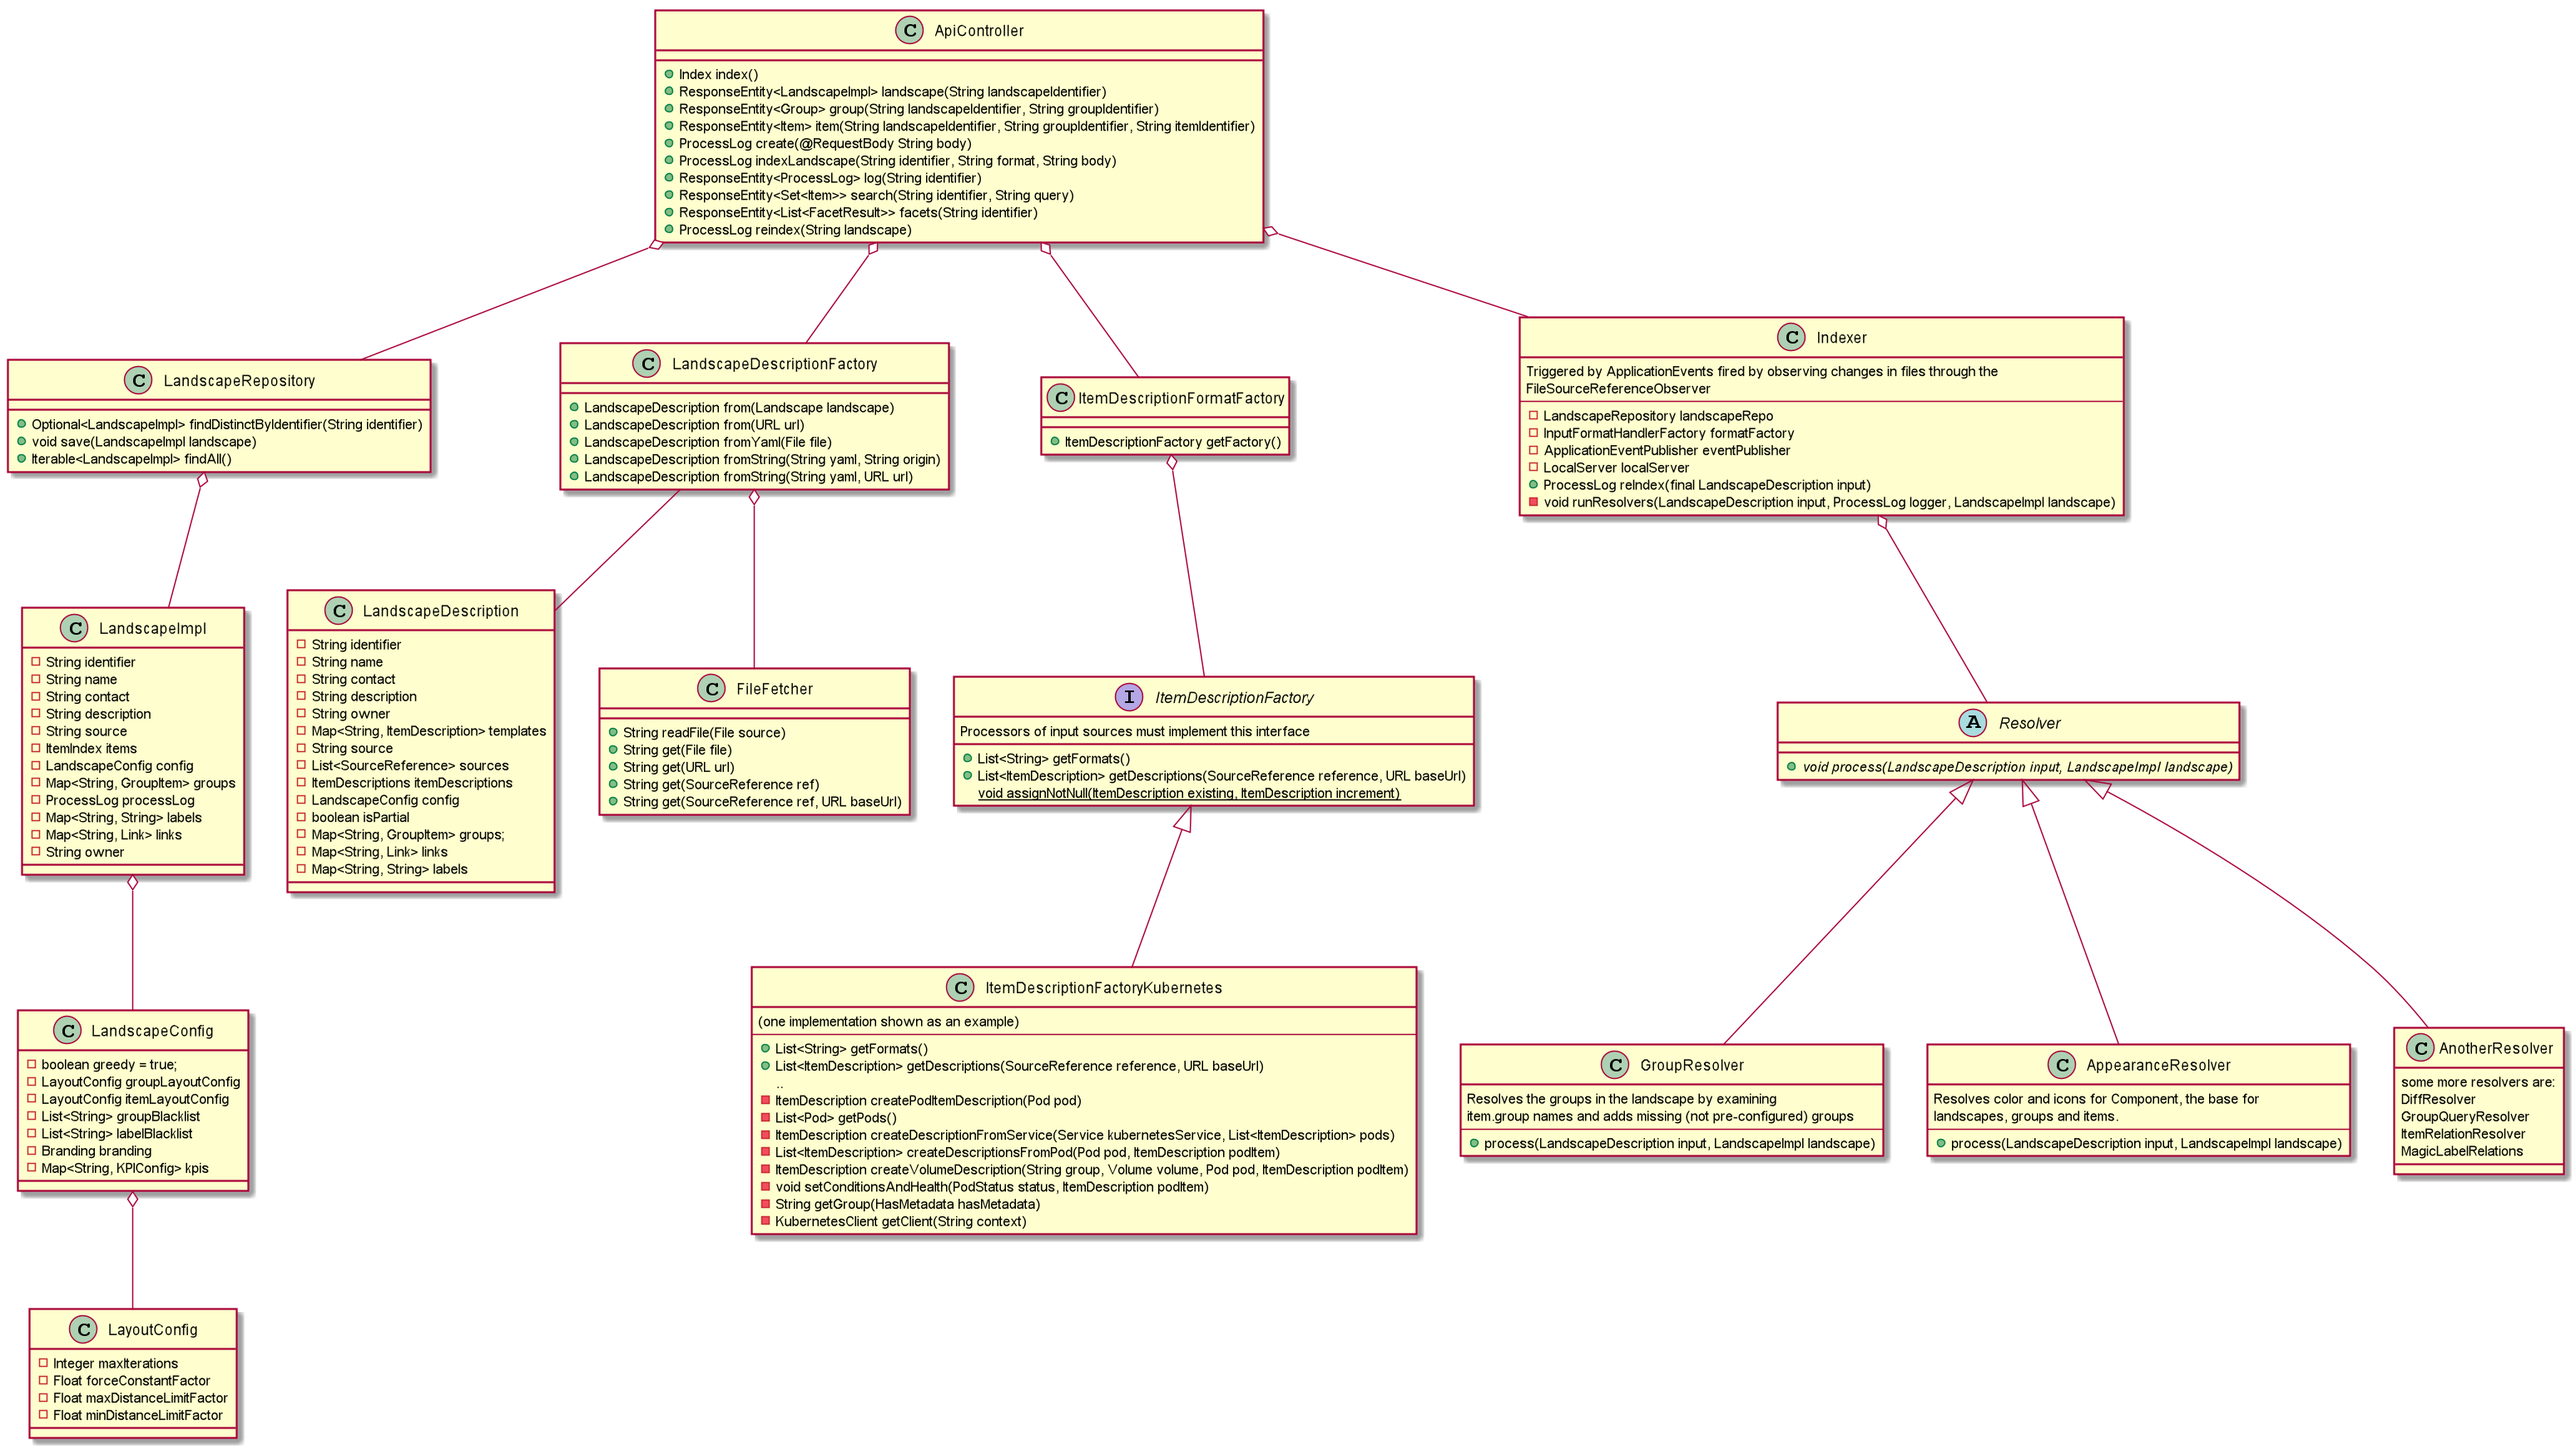
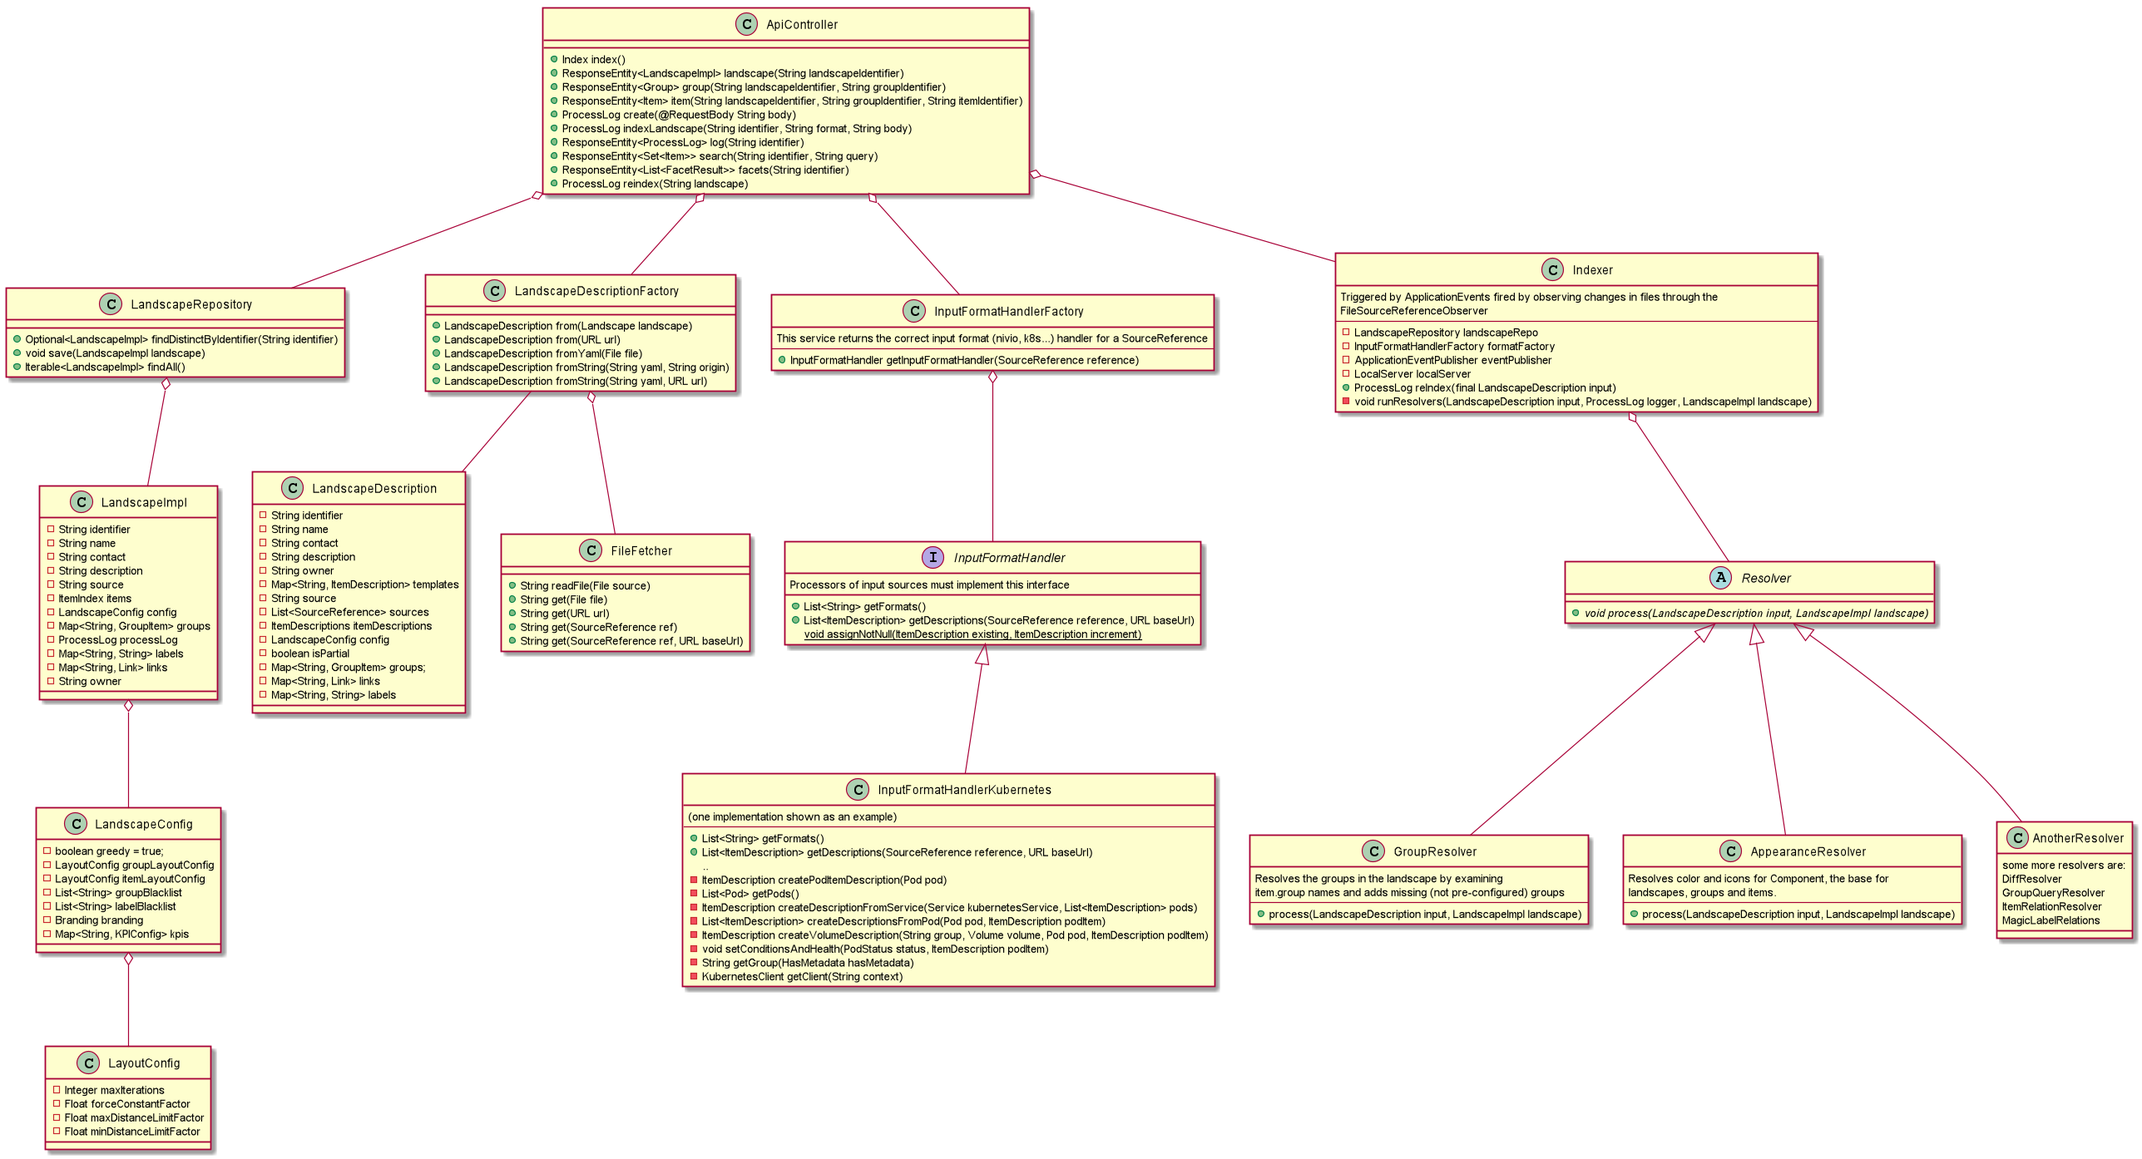
added text about the UML diagram to the readme

diff --git a/src/main/java/de/bonndan/nivio/input/InputFormatHandlerFactory.java b/src/main/java/de/bonndan/nivio/input/InputFormatHandlerFactory.java
@@ -10,7 +10,7 @@ import java.util.*;
 import java.util.concurrent.ConcurrentHashMap;
 
 /**
- * This service returns the correct the proper input format (nivio, k8s...) handler for a {@link SourceReference}.
+ * This service returns the correct input format (nivio, k8s...) handler for a {@link SourceReference}.
  */
 @Service
 public class InputFormatHandlerFactory {

diff --git a/readme.md b/readme.md
@@ -82,3 +82,29 @@ Clone nivio, build and run a Docker image:
   Open http://localhost:8080
   
   If you want to contribute to our frontend, read further into our [Frontend Readme](https://github.com/dedica-team/nivio/tree/develop/src/main/app)
+  
+**Nivio Backend Architecture**
+
+If you want to contribute to our backend, maybe the following diagram is of use to you. It shows some of the most important classes and 
+interfaces. It is supposed to give you an idea on how the backend is structured, but note that not all details are displayed:
+
+ ![layoutedArtifact graph](backend_architecture_api.png)
+ 
+ If you use the `ApiController` as the entry point to the backend, you can see that it retrieves information and triggers events
+  to the most important parts of the application. 
+ 
+The `LandscapeRespository` gives access to the stored landscapes.
+  
+The `LandscapeDescriptionFactory` is used to generate a `LandscapeDescription` from various sources, such as a `String` input, 
+or e.g. from a yaml file. 
+
+This `LandscapeDescription` has to be enriched with the `ItemDescription` for all items in the landscape.
+This is managed by the `InputFormatHandler`, which are able to read several input formats such as e.g. kubernetes files, or the
+nivio description format. Access to these handlers is managed by the `InputFormatHandlerFactory`.
+
+To actually create a landscape, the `Indexer` is used. This is able to compute the landscape graph from a `LandscapeDescription`.
+The `Indexer` uses several `Resolver` to resolve groups and item relations in landscapes and e.g. the appearance of the graph.
+
+The `Indexer` can be triggered either directly through the `ApiController` to index or reindex a landscape, or it is triggered
+by an observer mechanism on files. These are the files located under the path provided through the `SEED` environment variable.
+
